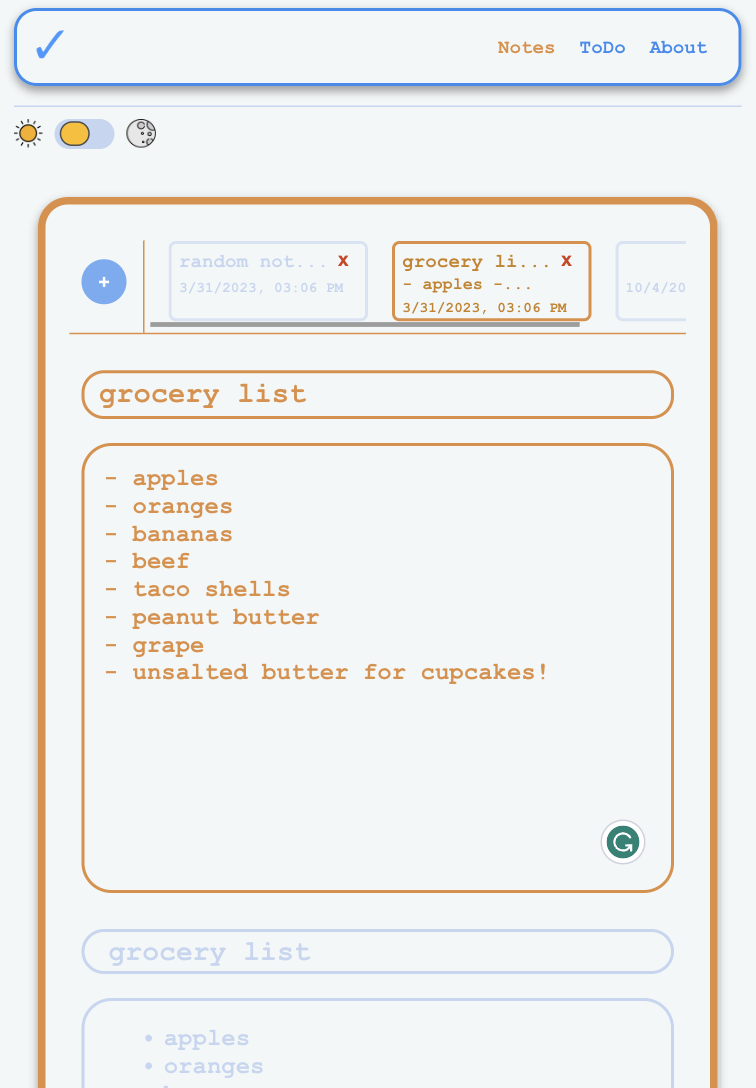
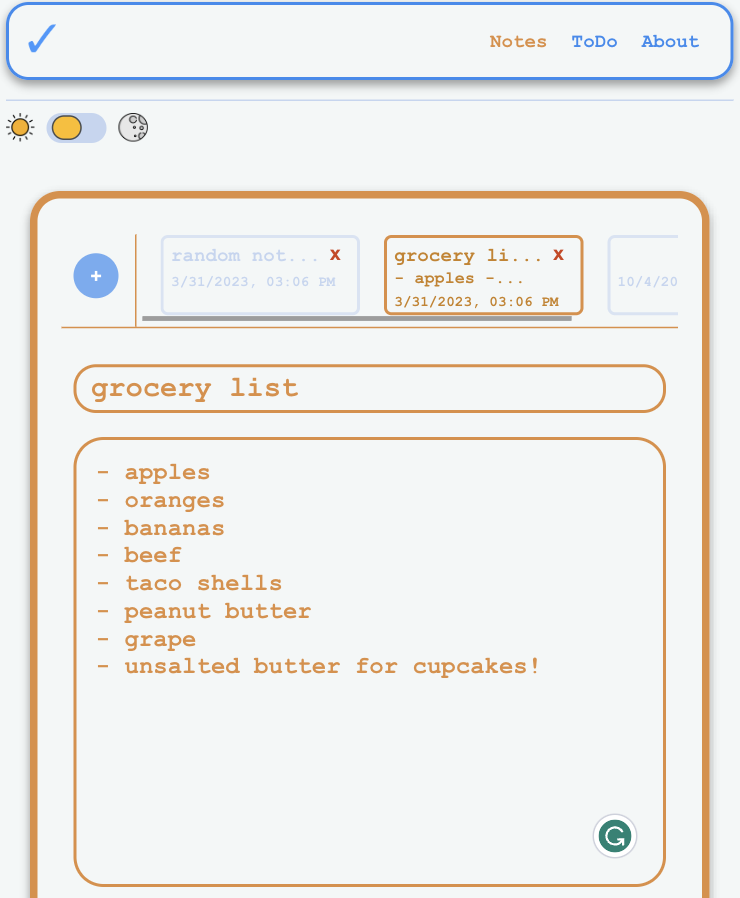
completed project checkit page for all responsive design and styled

Changed region(s): [[0.0, 0.0, 1.0, 1.0], [0.5595, 0.7171, 0.7149, 0.7483], [0.5595, 0.5924, 0.7149, 0.6236]]

diff --git a/src/components/projects/checkit/checkit.scss b/src/components/projects/checkit/checkit.scss
@@ -2,8 +2,20 @@
 @use '../../../styles/partials/mixins';
 @use '../../../styles/partials/variables';
 
+ul {
+    list-style-type: none;
+}
+
 .checkit {
     margin: 0 1rem 2rem;
+
+    @include mixins.tablet {
+        margin: 0 3rem 2rem;
+    }
+
+    @include mixins.desktop {
+        margin: 0 9rem 3rem;
+    }
 
     &__title {
         background-color: rgba(#2D8CF0, 0.8);
@@ -16,11 +28,23 @@
         border-radius: 15px;
         text-transform: uppercase;
 
+        @include mixins.desktop {
+            font-size: 5rem;
+        }
+
         &--project {
             color: variables.$Black-Font;
             font-size: 1.2rem;
             font-weight: 400;
             text-transform: uppercase;
+
+            @include mixins.tablet {
+                font-size: 1.7rem;
+            }
+
+            @include mixins.desktop {
+                font-size: 2.5rem;
+            }
         }
 
         &--role {
@@ -28,6 +52,14 @@
             font-weight: 400;
             text-transform: uppercase;
             margin-bottom: 0;
+
+            @include mixins.tablet {
+                font-size: 1.3rem;
+            }
+
+            @include mixins.desktop {
+                font-size: 1.8rem;
+            }
         }
     }
 
@@ -35,6 +67,14 @@
         margin: 0.5rem 0 2rem;
         padding-left: 1rem;
         border-left: 1px solid #2D8CF0;
+
+        @include mixins.tablet {
+            font-size: 1.2rem;
+        }
+
+        @include mixins.desktop {
+            font-size: 1.6rem;
+        }
     }
 
     &__container {
@@ -43,6 +83,10 @@
         margin: 3rem 0 2rem;
         border-radius: 20px;
 
+        @include mixins.desktop {
+            padding: 3.5rem 3rem;
+        }
+
         &--intro {
             margin: 0;
             color: rgba(variables.$Black-Font, 0.7);
@@ -50,17 +94,117 @@
             text-transform: uppercase;
             font-size: 1.5rem;
 
+            @include mixins.tablet {
+                font-size: 1.8rem;
+            }
+
+            @include mixins.desktop {
+                font-size: 2.3rem;
+            }
+
             &--description {
                 color: variables.$Black-Font;
                 font-weight: 100;
+
+                @include mixins.tablet {
+                    font-size: 1.3rem;
+                }
+
+                @include mixins.desktop {
+                    font-size: 1.7rem;
+                    margin-bottom: 0;
+
+                }
             }
         }
     }
 
     &__images {
-        margin-top: 1rem;
+        @include mixins.desktop {
+            display: flex;
+            flex-direction: row;
+        }
+
+        &--showcase1,
+        &--showcase2,
+        &--showcase3 {
+            margin-top: 1rem;
+            border-radius: 20px;
+            width: 100%;
+            border: 1px solid rgba(variables.$Orange, 0.5);
+
+            @include mixins.desktop {
+                width: 32%;
+                padding: 0.5rem;
+            }
+        }
+
+        &--showcase2,
+        &--showcase3 {
+            @include mixins.desktop {
+                margin-left: 1rem;
+            }
+        }
+    }
+
+    &__features {
+        padding: 1.5rem 1rem;
+        margin: 2rem 0 2rem;
         border-radius: 20px;
-        width: 100%;
-        border: 2px solid rgba(variables.$Orange, 0.5);
+        border: 2px solid rgba(#2D8CF0, 0.5);
+
+        @include mixins.tablet {
+            padding-bottom: 0;
+        }
+
+        @include mixins.desktop {
+            padding: 3.5rem 3rem;
+        }
+
+        &--title {
+            color: #2D8CF0;
+            font-weight: 400;
+            margin: 0;
+            text-transform: uppercase;
+            font-size: 1.5rem;
+
+            @include mixins.tablet {
+                font-size: 1.8rem;
+            }
+
+            @include mixins.desktop {
+                font-size: 2.3rem;
+            }
+        }
+
+        &--list {
+            color: rgba(variables.$Black-Font, 0.7);
+            font-weight: 100;
+            padding: 0;
+
+            @include mixins.tablet {
+                font-size: 1.3rem;
+            }
+
+            @include mixins.desktop {
+                font-size: 1.7rem;
+                margin-bottom: 0;
+            }
+        }
+    }
+
+    &__back {
+        background-color: transparent;
+        color: variables.$Dark-Grey;
+        padding: 0;
+        font-size: 0.8rem;
+
+        @include mixins.tablet {
+            font-size: 1rem;
+        }
+
+        @include mixins.desktop {
+            font-size: 1.2rem;
+        }
     }
 }

diff --git a/src/components/projects/checkit/projects-checkit.js b/src/components/projects/checkit/projects-checkit.js
@@ -22,15 +22,25 @@ class projectsCheckIt extends Component {
                     <h2 className="checkit__container--intro">introduction</h2>
                     <p className="checkit__container--intro--description"><span>Check-It</span> is a minimal organization application and chrome extension that allows users to easily track their day-to-day responsibilities with a to-do function, as well as a notes function for a place to quickly jot down their thoughts. All you have to do is open up a new tab, and watch your productivity grow.</p>
                 </div>
-                <div>
-                    <img className="checkit__images" src={checkit} alt="checkit-picture"></img>
-                    <img className="checkit__images" src={todo} alt="checkit-todo"></img>
-                    <img className="checkit__images" src={notes} alt="checkit-notes"></img>
+                <div className="check__images">
+                    <img className="checkit__images--showcase1" src={checkit} alt="checkit-picture"></img>
+                    <img className="checkit__images--showcase2" src={todo} alt="checkit-todo"></img>
+                    <img className="checkit__images--showcase3" src={notes} alt="checkit-notes"></img>
                 </div>
+                <div className="checkit__features">
+                    <h2 className="checkit__features--title">special features</h2>
+                    <ul className="checkit__features--list">
+                        <li>&#x2713; day/night mode</li>
+                        <li>&#x2713; unsplash API background</li>
+                        <li>&#x2713; CRUD operations</li>
+                    </ul>
+                </div>
+                <a href="/projects">
+                    <button className="checkit__back">&#x276E; return to projects</button>
+                </a>
             </div>
         );
     }
-
 }
 
 export default projectsCheckIt;
